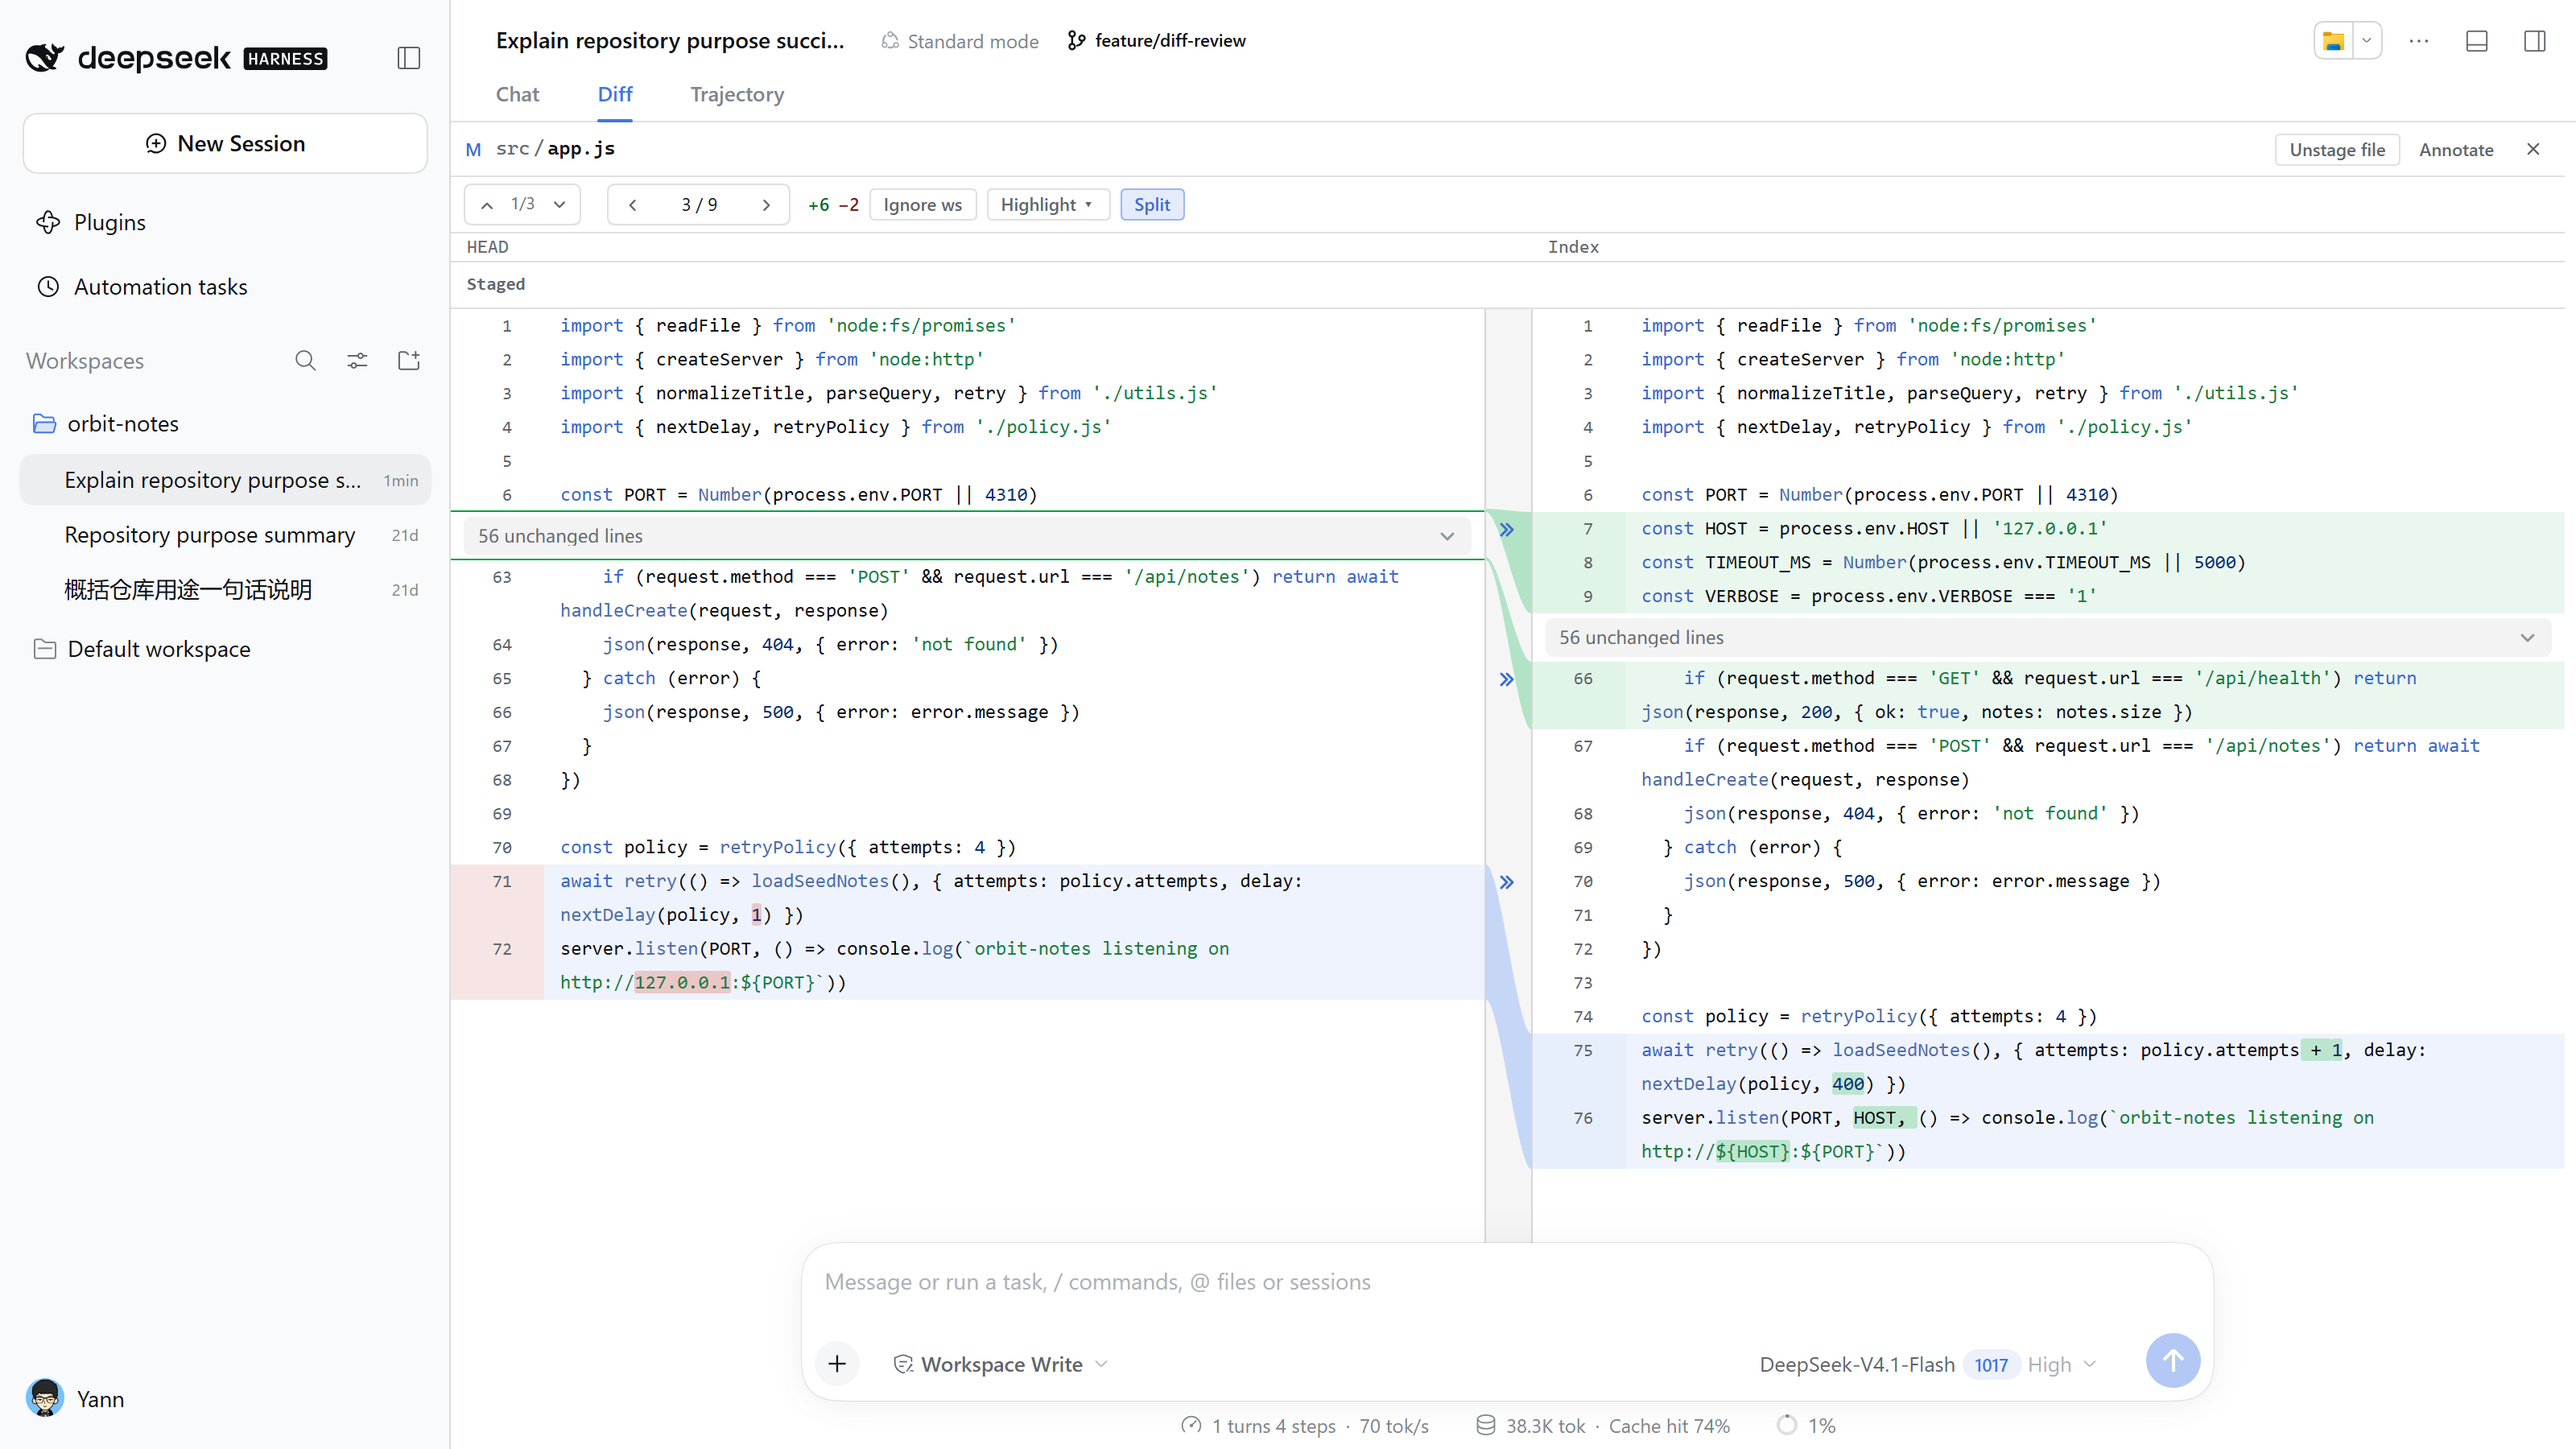
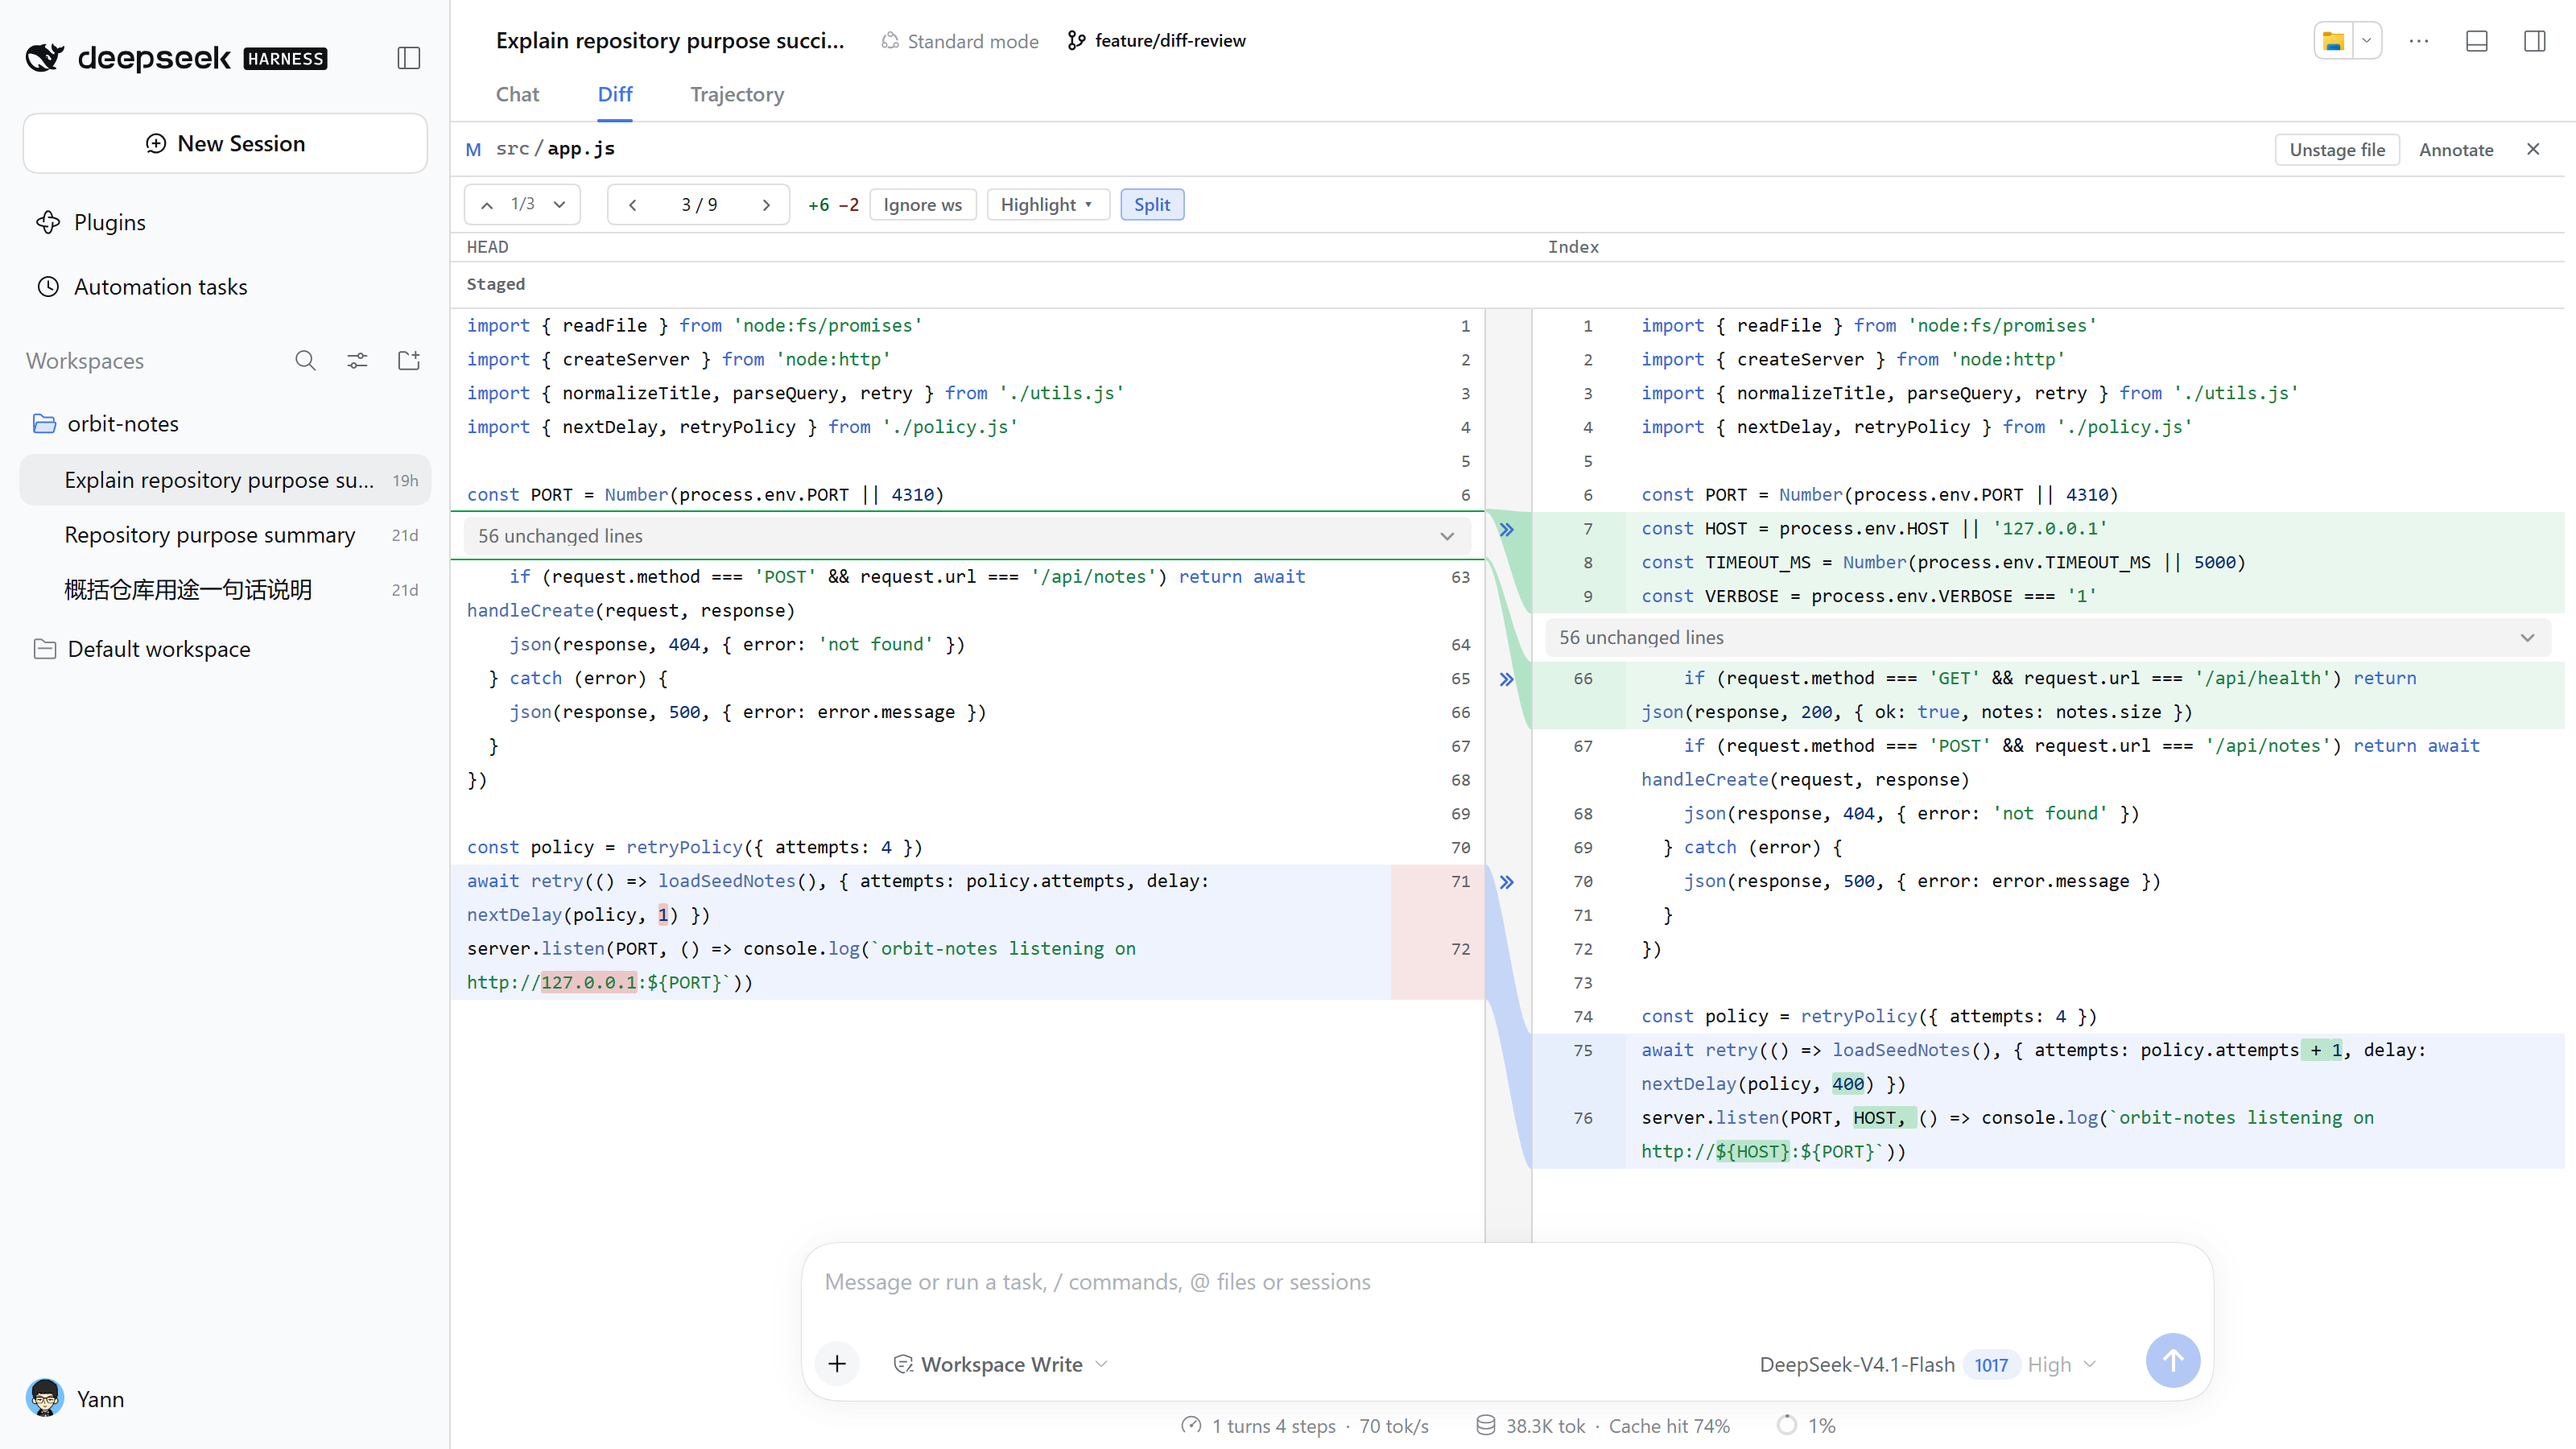
feat(client): put both split gutters against the divider
Mirror the left pane's row grid so its number column sits beside the centre
divider like IDEA's, and pin the three cells to row 1 so the mirrored
columns cannot stack into one row per cell.

Changed region(s): [[0.1875, 0.3733, 0.5312, 0.4978], [0.1875, 0.56, 0.5, 0.6844], [0.1875, 0.2178, 0.4688, 0.3111]]

diff --git a/src/client/client.styles.js b/src/client/client.styles.js
@@ -797,6 +797,16 @@ window.__ModuleLoader__.load({
 .gwb-drow { display: grid; align-items: stretch; min-width: 0; scroll-margin-top: 72px; }
 .gwb-drow[data-mode="side"] { position: relative; grid-template-columns: 46px 12px minmax(0,1fr); }
 .gwb-drow[data-mode="unified"] { grid-template-columns: 46px 46px 12px minmax(0,1fr); }
+/* Both gutters sit against the divider, not on the outer edges, so the two
+   line-number columns read as one strip beside the bands. The left pane
+   therefore mirrors its grid: code, stage gutter, number. */
+.gwb-splitpane[data-col="left"] .gwb-drow[data-mode="side"] { grid-template-columns: minmax(0,1fr) 12px 46px; }
+/* The cells keep their DOM order (number, stage gutter, code), so each needs an
+   explicit row: without it the mirrored columns would auto-place the three
+   cells one per row and triple every line's height. */
+.gwb-splitpane[data-col="left"] .gwb-drow[data-mode="side"] > .gwb-dc.code { grid-column: 1; grid-row: 1; }
+.gwb-splitpane[data-col="left"] .gwb-drow[data-mode="side"] > .gwb-dc.bar { grid-column: 2; grid-row: 1; }
+.gwb-splitpane[data-col="left"] .gwb-drow[data-mode="side"] > .gwb-dc.ln { grid-column: 3; grid-row: 1; }
 .gwb-dc { min-height: 21px; line-height: 21px; min-width: 0; overflow: hidden; }
 /* IDEA tints the gutter of a changed line instead of drawing a change bar, so
    the number column and the stage gutter paint as one strip of the change
